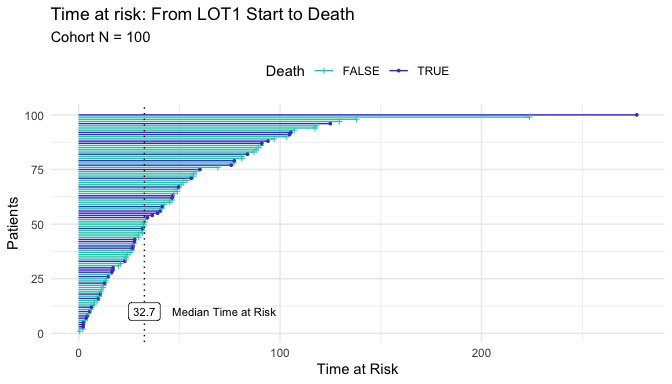
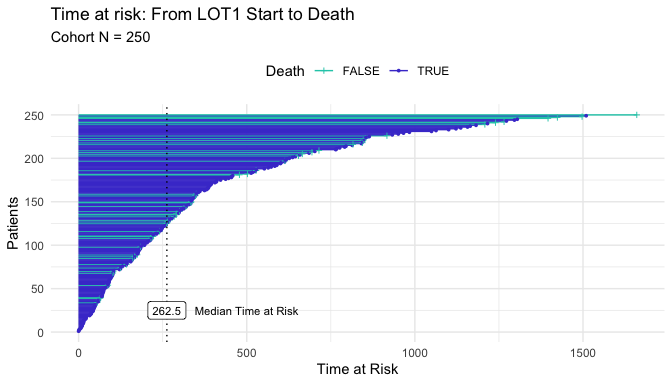
added new code for creating ez_cohort

diff --git a/README.md b/README.md
@@ -28,11 +28,11 @@ devtools::install_github(repo = "https://github.com/ndphillips/iwillsurvive",
 
 ``` r
 library(iwillsurvive)
-#> -----------------------------------------------------------------------
+#> -----------------------------------------------------
 #> iwillsurvive 0.1.0 'Gloria'
-#> Intro   : vignette('introduction', 'iwillsurvive')
-#> Repo    : https://github.com/ndphillips/iwillsurvive
-#> .......................................................................
+#> Intro  : vignette('introduction', 'iwillsurvive')
+#> Repo   : https://github.com/ndphillips/iwillsurvive
+#> .....................................................
 library(dplyr)
 #> 
 #> Attaching package: 'dplyr'
@@ -58,20 +58,20 @@ simulated patients:
 
 ``` r
 ez_cohort
-#> # A tibble: 100 x 5
-#>    patientid group   lotstartdate censordate dateofdeath
-#>    <chr>     <chr>   <date>       <date>     <date>     
-#>  1 F00001    placebo 2020-07-20   2020-09-15 NA         
-#>  2 F00002    drug    2020-04-21   2020-07-27 NA         
-#>  3 F00003    drug    2020-07-24   NA         2020-08-09 
-#>  4 F00004    placebo 2020-01-04   2020-08-14 NA         
-#>  5 F00005    placebo 2020-04-07   2020-08-22 NA         
-#>  6 F00006    drug    2020-01-07   2020-04-23 NA         
-#>  7 F00007    drug    2020-07-01   NA         2020-07-10 
-#>  8 F00008    placebo 2020-10-25   NA         2020-11-30 
-#>  9 F00009    placebo 2020-05-25   2020-06-20 NA         
-#> 10 F00010    placebo 2020-10-07   2020-11-07 NA         
-#> # … with 90 more rows
+#> # A tibble: 250 x 5
+#>    patientid condition lotstartdate lastvisitdate dateofdeath
+#>    <chr>     <chr>     <date>       <date>        <date>     
+#>  1 F00001    placebo   2016-05-17   2020-12-01    NA         
+#>  2 F00002    placebo   2020-07-27   2020-08-25    2020-10-05 
+#>  3 F00003    drug      2016-04-14   2017-02-16    2017-03-13 
+#>  4 F00004    drug      2020-06-12   2020-11-25    NA         
+#>  5 F00005    placebo   2019-03-20   2020-01-13    2020-02-21 
+#>  6 F00006    placebo   2017-04-02   2017-10-18    2017-11-19 
+#>  7 F00007    placebo   2018-01-26   2019-01-12    2019-02-17 
+#>  8 F00008    placebo   2015-07-02   2015-11-20    2015-12-23 
+#>  9 F00009    drug      2019-03-08   2020-07-18    2020-08-17 
+#> 10 F00010    placebo   2018-08-23   2019-02-14    2019-03-08 
+#> # … with 240 more rows
 ```
 
 Use the `derive_*()` functions to calculate key derived columns:
@@ -87,7 +87,7 @@ Use the `derive_*()` functions to calculate key derived columns:
 cohort <- ez_cohort %>%
   
   derive_follow_up_date(event_date = "dateofdeath",
-                        censor_date = "censordate") %>%
+                        censor_date = "lastvisitdate") %>%
   
   derive_follow_up_time(index_date = "lotstartdate") %>%
   
@@ -101,20 +101,20 @@ front) for visibility
 cohort %>%
   select(patientid, follow_up_date, follow_up_days, event_status, 
          everything())
-#> # A tibble: 100 x 8
-#>    patientid follow_up_date follow_up_days event_status group lotstartdate
-#>    <chr>     <date>                  <dbl> <lgl>        <chr> <date>      
-#>  1 F00001    2020-09-15              57.1  FALSE        plac… 2020-07-20  
-#>  2 F00002    2020-07-27              97.1  FALSE        drug  2020-04-21  
-#>  3 F00003    2020-08-09              16.5  TRUE         drug  2020-07-24  
-#>  4 F00004    2020-08-14             224.   FALSE        plac… 2020-01-04  
-#>  5 F00005    2020-08-22             138.   FALSE        plac… 2020-04-07  
-#>  6 F00006    2020-04-23             107.   FALSE        drug  2020-01-07  
-#>  7 F00007    2020-07-10               9.87 TRUE         drug  2020-07-01  
-#>  8 F00008    2020-11-30              36.6  TRUE         plac… 2020-10-25  
-#>  9 F00009    2020-06-20              26.4  FALSE        plac… 2020-05-25  
-#> 10 F00010    2020-11-07              31.7  FALSE        plac… 2020-10-07  
-#> # … with 90 more rows, and 2 more variables: censordate <date>,
+#> # A tibble: 250 x 8
+#>    patientid follow_up_date follow_up_days event_status condition lotstartdate
+#>    <chr>     <date>                  <dbl> <lgl>        <chr>     <date>      
+#>  1 F00001    2020-12-01             1660.  FALSE        placebo   2016-05-17  
+#>  2 F00002    2020-10-05               70.1 TRUE         placebo   2020-07-27  
+#>  3 F00003    2017-03-13              333.  TRUE         drug      2016-04-14  
+#>  4 F00004    2020-11-25              167.  FALSE        drug      2020-06-12  
+#>  5 F00005    2020-02-21              338.  TRUE         placebo   2019-03-20  
+#>  6 F00006    2017-11-19              232.  TRUE         placebo   2017-04-02  
+#>  7 F00007    2019-02-17              388.  TRUE         placebo   2018-01-26  
+#>  8 F00008    2015-12-23              175.  TRUE         placebo   2015-07-02  
+#>  9 F00009    2020-08-17              528.  TRUE         drug      2019-03-08  
+#> 10 F00010    2019-03-08              197.  TRUE         placebo   2018-08-23  
+#> # … with 240 more rows, and 2 more variables: lastvisitdate <date>,
 #> #   dateofdeath <date>
 ```
 
@@ -130,7 +130,7 @@ plot_follow_up_time(cohort,
 <img src="man/figures/README-unnamed-chunk-6-1.png" width="85%" />
 
 Use `fit_survival()` to fit the survival model. We’ll set the follow up
-time to be `follow_up_days` and specify “group” as a term (i.e.;
+time to be `follow_up_days` and specify “condition” as a term (i.e.;
 covariate) to be used in the model
 
 <!-- If we were using `survival::survfit()` we'd need to specify this nasty 
@@ -142,10 +142,10 @@ and let the function take care of the formula: -->
 ``` r
 cohort_fit <- fit_survival(cohort, 
                            follow_up_time = "follow_up_days", 
-                           terms = "group")
+                           terms = "condition")
 #> ── fit_survival ────────────────────────────────────────────────────────────────
-#> - survival::survfit(survival::Surv(follow_up_days, event_status, type = 'right') ~ group, data = cohort)
-#> - 39 of 100 (39%) patient(s) experienced the event.
+#> - survival::survfit(survival::Surv(follow_up_days, event_status, type = 'right') ~ condition, data = cohort)
+#> - 202 of 250 (81%) patient(s) experienced the event.
 ```
 
 The result is a `survfit` object (from the `survival` package)
@@ -156,11 +156,11 @@ class(cohort_fit)
 
 cohort_fit
 #> Call: survfit(formula = survival::Surv(follow_up_days, event_status, 
-#>     type = "right") ~ group, data = cohort)
+#>     type = "right") ~ condition, data = cohort)
 #> 
-#>                n events median 0.95LCL 0.95UCL
-#> group=drug    47     20   83.8    55.9      NA
-#> group=placebo 53     19   91.0    46.5      NA
+#>                     n events median 0.95LCL 0.95UCL
+#> condition=drug    132    105    410     329     590
+#> condition=placebo 118     97    232     184     313
 ```
 
 Use `plot_survival()` to plot the result. Use the `index_name` and
